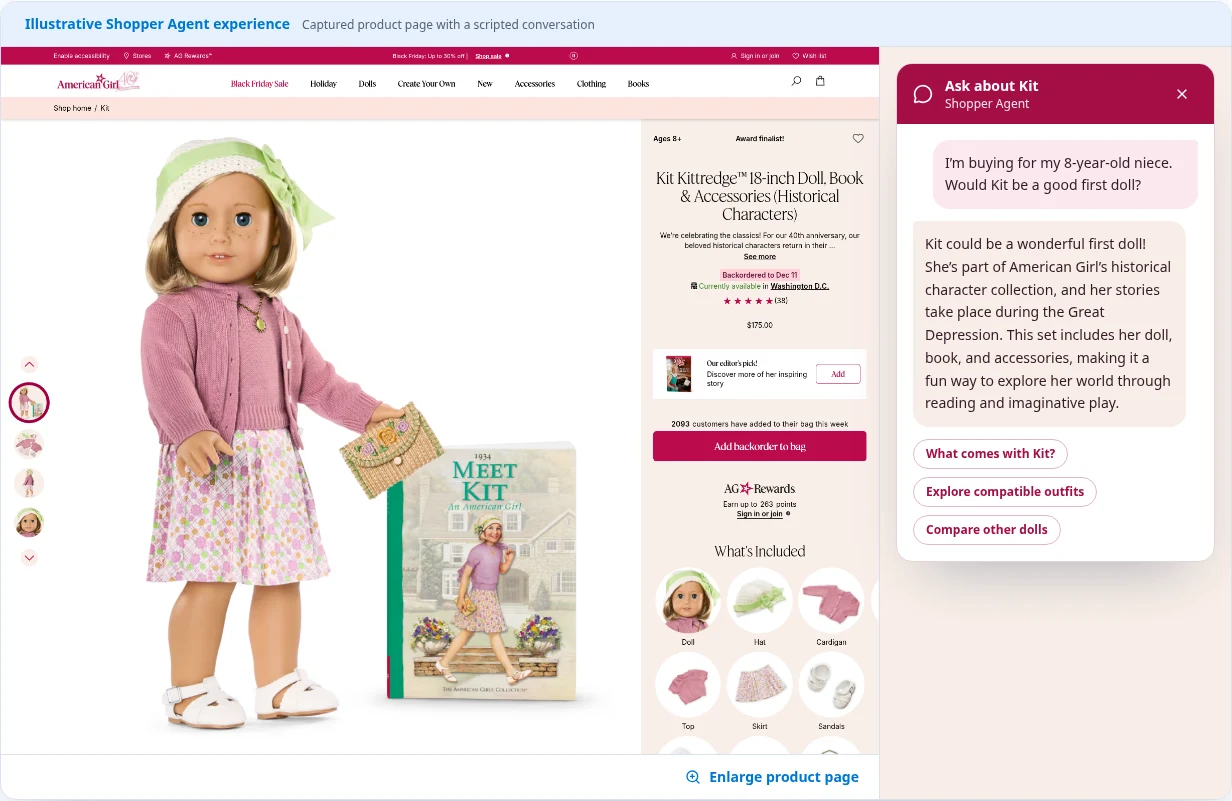
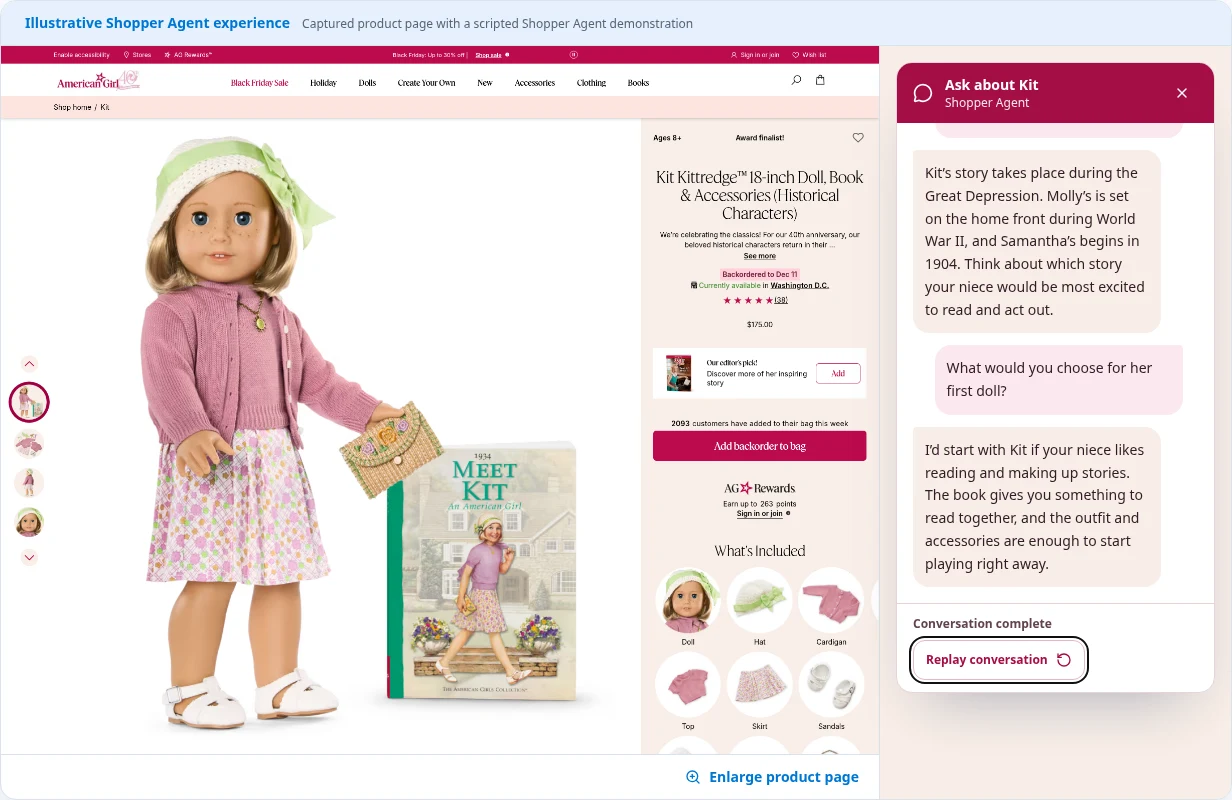
Preserve the full Kit Shopper Agent conversation

diff --git a/src/components/microsite/ShopperAgent.tsx b/src/components/microsite/ShopperAgent.tsx
@@ -1,36 +1,73 @@
-import { useRef, useState } from "react";
-import { MessageCircle, X, ZoomIn } from "lucide-react";
+import { useEffect, useRef, useState } from "react";
+import { ArrowRight, MessageCircle, RotateCcw, X, ZoomIn } from "lucide-react";
 import { Lightbox } from "./Sections";
 
 const kitPdp = "/images/american-girl/kit-product-page.webp";
 const kitAlt =
   "American Girl’s Kit Kittredge product page showing the doll, book and accessories, $175 price, ratings, availability, and purchase button.";
 
-const followUps = [
+const conversation = [
+  {
+    question: "I'm shopping for my 8-year-old niece. Would Kit be a good first doll?",
+    answer:
+      "Kit is recommended for ages 8 and up, so she’s a good option for your niece. Her story follows a girl growing up during the Great Depression. Your niece can read about Kit and then imagine adventures of her own.",
+  },
   {
     question: "What comes with Kit?",
     answer:
-      "This set includes the 18-inch Kit doll, the Meet Kit paperback, and accessories including her crocheted hat, compass necklace, and embroidered purse.",
+      "The set includes the 18-inch Kit doll in her signature outfit, the Meet Kit paperback, and accessories including her crocheted hat, compass necklace, and embroidered purse.",
   },
   {
-    question: "Explore compatible outfits",
+    question: "Could she dress Kit in other outfits?",
     answer:
-      "Kit is an 18-inch American Girl doll. When browsing outfits, look for listings that specify they fit 18-inch American Girl dolls.",
+      "Yes. Look for outfits or play accessories labeled for 18-inch American Girl dolls. She could keep Kit’s signature outfit for scenes from the book and change her clothes for stories she makes up.",
   },
   {
-    question: "Compare other dolls",
+    question: "How does Kit compare with other historical dolls?",
     answer:
-      "Kit’s story is set in 1934. When comparing historical character dolls, consider the recommended age, the story that interests your niece, and what comes with each set.",
+      "Kit’s story takes place during the Great Depression. Molly’s is set on the home front during World War II, and Samantha’s begins in 1904. Think about which story your niece would be most excited to read and act out.",
+  },
+  {
+    question: "What would you choose for her first doll?",
+    answer:
+      "I’d start with Kit if your niece likes reading and making up stories. The book gives you something to read together, and the outfit and accessories are enough to start playing right away.",
   },
 ];
 
+function ChatBubble({ speaker, text }: { speaker: "Shopper" | "Shopper Agent"; text: string }) {
+  const shopper = speaker === "Shopper";
+
+  return (
+    <p
+      className={`w-fit max-w-[92%] rounded-2xl p-3 motion-safe:animate-in motion-safe:fade-in motion-safe:slide-in-from-bottom-1 motion-safe:duration-300 ${
+        shopper ? "ml-auto rounded-tr-sm bg-[#fbe8ef]" : "rounded-tl-sm bg-[#f8eee7]"
+      }`}
+    >
+      <span className="sr-only">{speaker}: </span>
+      {text}
+    </p>
+  );
+}
+
 export function ShopperAgent() {
   const [open, setOpen] = useState(true);
-  const [selected, setSelected] = useState<number | null>(null);
+  const [visibleTurns, setVisibleTurns] = useState(1);
   const [zoom, setZoom] = useState(false);
   const launcher = useRef<HTMLButtonElement>(null);
   const close = useRef<HTMLButtonElement>(null);
-  const followUp = selected === null ? null : followUps[selected];
+  const transcript = useRef<HTMLDivElement>(null);
+  const nextTurn = conversation[visibleTurns];
+
+  useEffect(() => {
+    const log = transcript.current;
+    if (!log) return;
+
+    const reduceMotion = window.matchMedia?.("(prefers-reduced-motion: reduce)")?.matches;
+    log.scrollTo?.({
+      top: visibleTurns === 1 ? 0 : log.scrollHeight,
+      behavior: visibleTurns === 1 || reduceMotion ? "instant" : "smooth",
+    });
+  }, [visibleTurns]);
 
   return (
     <section id="shopper-agent" className="mx-auto max-w-7xl px-6 py-24">
@@ -49,7 +86,7 @@ export function ShopperAgent() {
         <figcaption className="border-b bg-secondary px-4 py-3 text-sm font-semibold text-primary sm:px-6">
           Illustrative Shopper Agent experience
           <span className="mt-1 block text-xs font-medium text-muted-foreground sm:ml-3 sm:mt-0 sm:inline">
-            Captured product page with a scripted conversation
+            Captured product page with a scripted Shopper Agent demonstration
           </span>
         </figcaption>
         <div className="grid items-start lg:grid-cols-[minmax(0,1fr)_22rem]">
@@ -97,49 +134,42 @@ export function ShopperAgent() {
                   <X className="size-4" aria-hidden="true" />
                 </button>
               </header>
-              <div className="space-y-3 p-4 text-sm leading-relaxed">
-                <p className="ml-5 rounded-2xl rounded-tr-sm bg-[#fbe8ef] p-3">
-                  <span className="sr-only">Shopper: </span>
-                  I’m buying for my 8-year-old niece. Would Kit be a good first doll?
+              <div
+                id="kit-transcript"
+                ref={transcript}
+                role="log"
+                aria-label="Kit conversation history"
+                aria-relevant="additions"
+                tabIndex={0}
+                className="h-[22rem] space-y-3 overflow-y-auto overscroll-contain px-4 py-4 text-sm leading-relaxed [scrollbar-gutter:stable] focus-visible:outline-2 focus-visible:-outline-offset-2 focus-visible:outline-[#a40f45] lg:h-[30rem]"
+              >
+                {conversation.slice(0, visibleTurns).map(({ question, answer }) => (
+                  <div key={question} className="space-y-3">
+                    <ChatBubble speaker="Shopper" text={question} />
+                    <ChatBubble speaker="Shopper Agent" text={answer} />
+                  </div>
+                ))}
+              </div>
+              <div className="border-t border-[#e6d4d8] px-4 py-3">
+                <p className="mb-2 text-xs font-semibold text-[#61434f]" id="kit-prompt-label">
+                  {nextTurn ? "Suggested follow-up" : "Conversation complete"}
                 </p>
-                <p className="mr-3 rounded-2xl rounded-tl-sm bg-[#f8eee7] p-3">
-                  <span className="sr-only">Shopper Agent: </span>
-                  Kit could be a wonderful first doll! She’s part of American Girl’s historical
-                  character collection, and her stories take place during the Great Depression. This
-                  set includes her doll, book, and accessories, making it a fun way to explore her
-                  world through reading and imaginative play.
-                </p>
-                <div aria-live="polite" className="space-y-2">
-                  {followUp && (
-                    <>
-                      <p className="ml-5 rounded-2xl rounded-tr-sm bg-[#fbe8ef] p-3">
-                        <span className="sr-only">Shopper: </span>
-                        {followUp.question}
-                      </p>
-                      <p className="mr-3 rounded-2xl rounded-tl-sm bg-[#f8eee7] p-3">
-                        <span className="sr-only">Shopper Agent: </span>
-                        {followUp.answer}
-                      </p>
-                    </>
-                  )}
-                </div>
-                <div
-                  className="flex flex-wrap gap-2"
-                  role="group"
-                  aria-label="Suggested follow-up questions"
+                <button
+                  type="button"
+                  onClick={() =>
+                    setVisibleTurns((turns) => (turns < conversation.length ? turns + 1 : 1))
+                  }
+                  aria-describedby="kit-prompt-label"
+                  aria-controls="kit-transcript"
+                  className="inline-flex min-h-10 max-w-full items-center gap-2 rounded-xl border border-[#a40f45]/30 px-3 py-2 text-left text-xs font-semibold text-[#a40f45] hover:bg-[#fbe8ef] focus-visible:outline-2 focus-visible:outline-offset-2"
                 >
-                  {followUps.map(({ question }, index) => (
-                    <button
-                      key={question}
-                      type="button"
-                      aria-pressed={selected === index}
-                      onClick={() => setSelected(index)}
-                      className="rounded-full border border-[#a40f45]/30 px-3 py-1.5 text-left text-xs font-semibold text-[#a40f45] hover:bg-[#fbe8ef] focus-visible:outline-2 focus-visible:outline-offset-2 aria-pressed:bg-[#a40f45] aria-pressed:text-white"
-                    >
-                      {question}
-                    </button>
-                  ))}
-                </div>
+                  {nextTurn ? nextTurn.question : "Replay conversation"}
+                  {nextTurn ? (
+                    <ArrowRight className="size-4 shrink-0" aria-hidden="true" />
+                  ) : (
+                    <RotateCcw className="size-4 shrink-0" aria-hidden="true" />
+                  )}
+                </button>
               </div>
             </div>
             {!open && (

diff --git a/src/test/shopper-agent.test.tsx b/src/test/shopper-agent.test.tsx
@@ -3,28 +3,46 @@ import { describe, expect, it } from "vitest";
 import { ShopperAgent } from "@/components/microsite/ShopperAgent";
 
 describe("Illustrative Kit Shopper Agent", () => {
-  it("opens and closes alongside the product page and answers each suggested question", () => {
+  it("appends each turn in order and preserves the transcript when closed and reopened", () => {
     render(<ShopperAgent />);
+    const history = screen.getByRole("log", { name: "Kit conversation history" });
+    const firstQuestion = "I'm shopping for my 8-year-old niece. Would Kit be a good first doll?";
+    expect(within(history).getByText(firstQuestion)).toBeVisible();
 
-    fireEvent.click(screen.getByRole("button", { name: "Close Shopper Agent" }));
-    expect(screen.queryByRole("group", { name: "Suggested follow-up questions" })).toBeNull();
-    expect(screen.getByRole("img", { name: /Kit Kittredge product page/ })).toBeVisible();
-
-    fireEvent.click(screen.getByRole("button", { name: "Ask about Kit" }));
-    const suggested = screen.getByRole("group", { name: "Suggested follow-up questions" });
     const examples = [
       ["What comes with Kit?", /embroidered purse/],
-      ["Explore compatible outfits", /listings that specify they fit/],
-      ["Compare other dolls", /story is set in 1934/],
+      ["Could she dress Kit in other outfits?", /labeled for 18-inch American Girl dolls/],
+      ["How does Kit compare with other historical dolls?", /home front during World War II/],
+      ["What would you choose for her first doll?", /I’d start with Kit/],
     ] as const;
 
     for (const [question, answer] of examples) {
-      const button = within(suggested).getByRole("button", { name: question });
-      fireEvent.click(button);
-      expect(button).toHaveAttribute("aria-pressed", "true");
-      expect(screen.getByText(answer)).toBeVisible();
+      fireEvent.click(screen.getByRole("button", { name: question }));
+      expect(within(history).getByText(answer)).toBeVisible();
     }
-    expect(screen.queryByText(/embroidered purse/)).toBeNull();
+
+    const messages = Array.from(history.querySelectorAll("p"), (message) => message.textContent);
+    expect(messages).toHaveLength(10);
+    expect(messages.filter((_, index) => index % 2 === 0)).toEqual(
+      [firstQuestion, ...examples.map(([question]) => question)].map(
+        (question) => `Shopper: ${question}`,
+      ),
+    );
+    expect(within(history).getByText(/embroidered purse/)).toBeVisible();
+
+    fireEvent.click(screen.getByRole("button", { name: "Close Shopper Agent" }));
+    expect(screen.queryByRole("log")).toBeNull();
+    expect(screen.getByRole("img", { name: /Kit Kittredge product page/ })).toBeVisible();
+
+    fireEvent.click(screen.getByRole("button", { name: "Ask about Kit" }));
+    expect(screen.getByRole("log")).toBe(history);
+    expect(within(history).getByText(/I’d start with Kit/)).toBeVisible();
+
+    fireEvent.click(screen.getByRole("button", { name: "Replay conversation" }));
+    expect(within(history).getByText(firstQuestion)).toBeVisible();
+    expect(within(history).getByText(/recommended for ages 8 and up/)).toBeVisible();
+    expect(within(history).queryByText(/I’d start with Kit/)).toBeNull();
+    expect(screen.getByRole("button", { name: "What comes with Kit?" })).toBeVisible();
   });
 
   it("enlarges the product-page screenshot and closes on Escape", () => {
